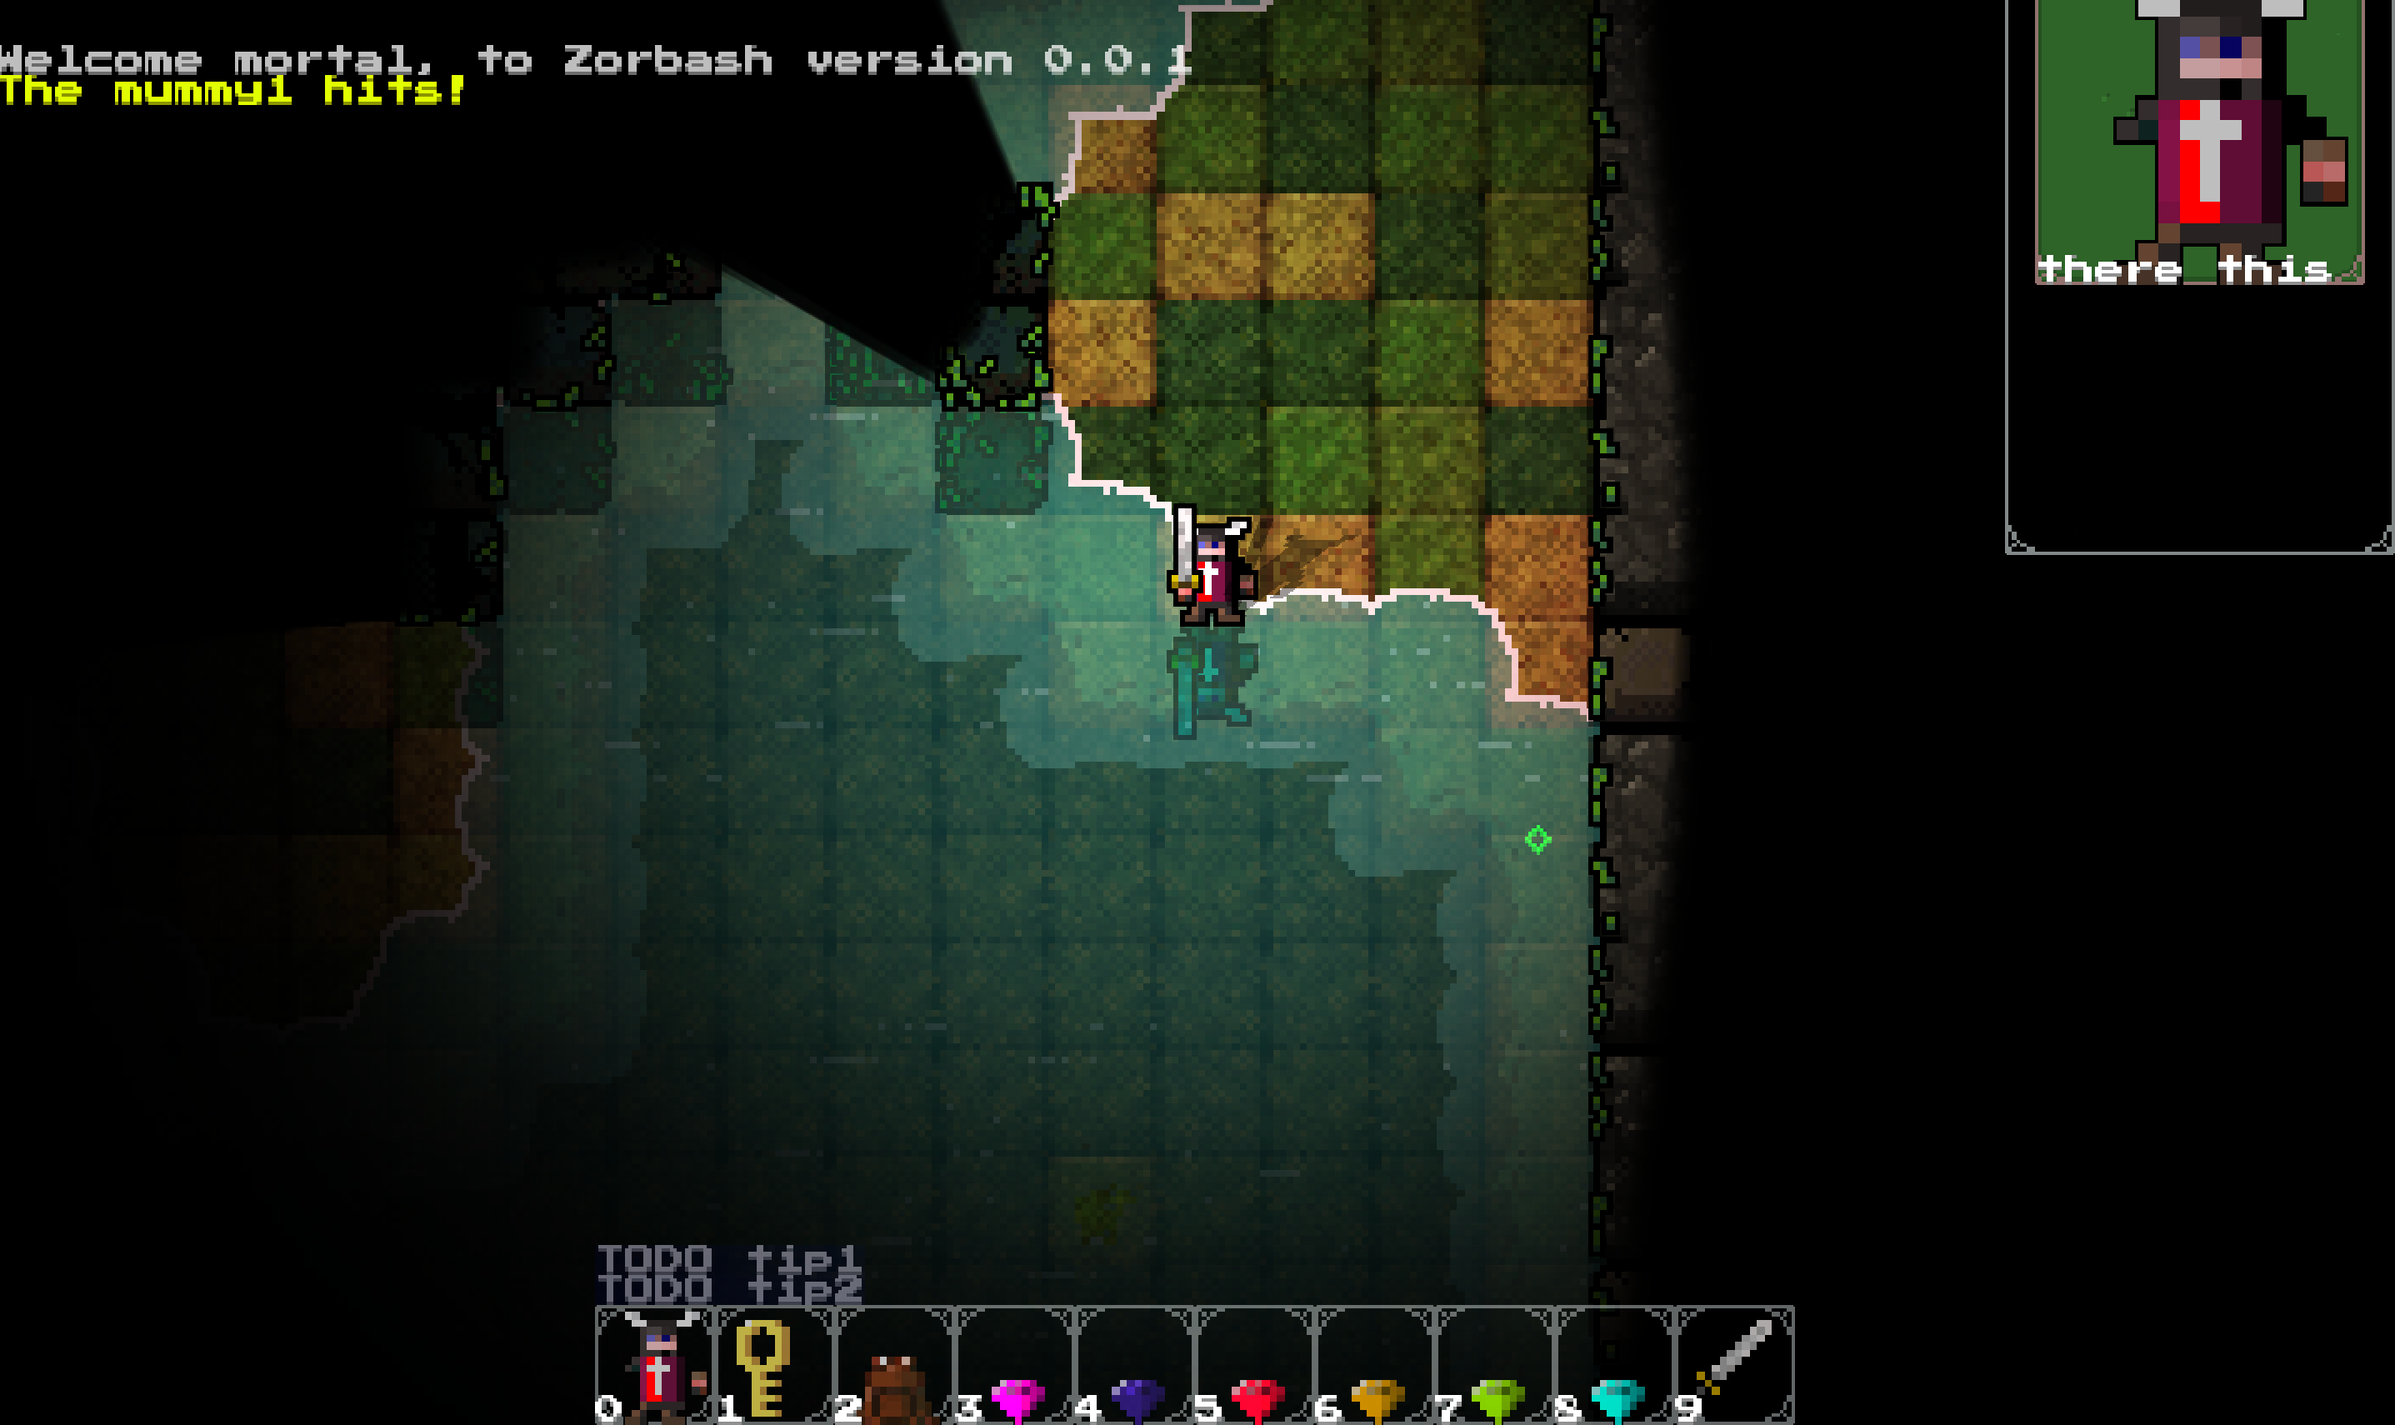
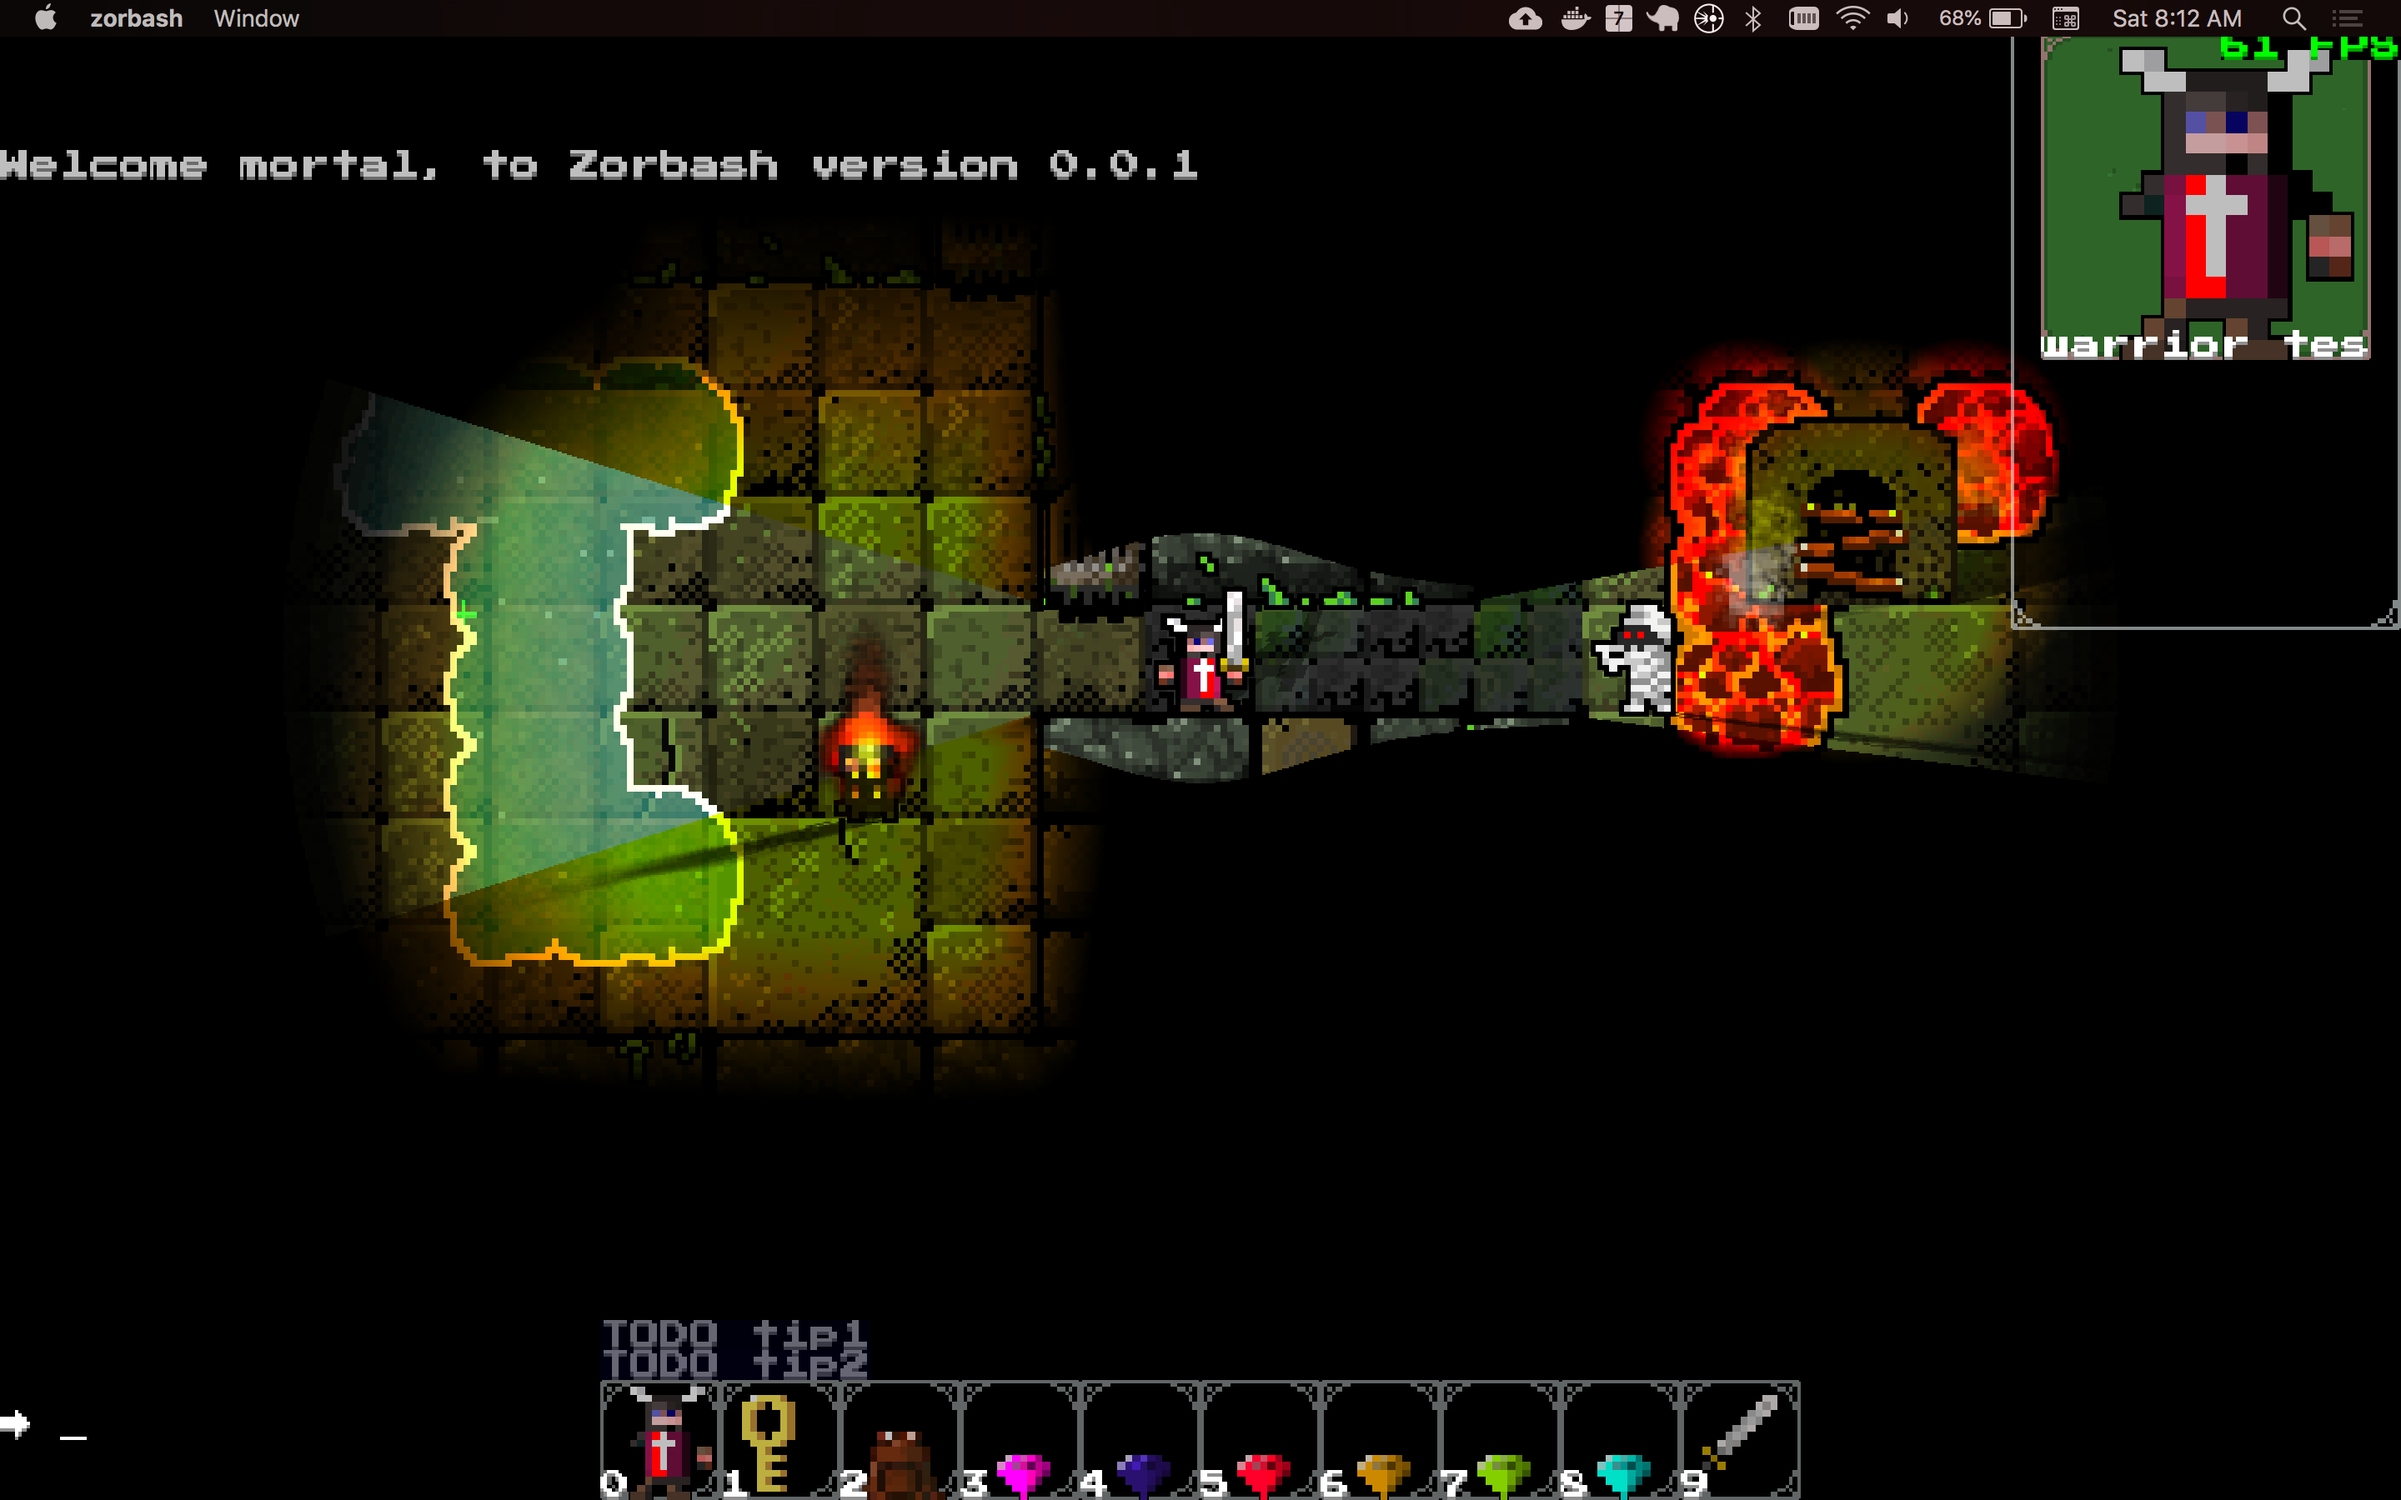
overlay lighting
Former-commit-id: b4a5f2fd73101e923c212e687438c3f433e84f78

diff --git a/src/light.cpp b/src/light.cpp
@@ -6,8 +6,6 @@
 #include "my_game.h"
 #include "my_gl.h"
 
-static const int LIGHT_VISIBLE_DIST = TILES_ACROSS + TILES_ACROSS / 2;
-
 Thingp debug_thing;
 
 static Texp light_overlay_tex ;
@@ -280,6 +278,12 @@ void Light::render_triangle_fans (void)
     } else {
         float *b = &(*glbuf.begin());
         float *e = &(*glbuf.end());
+
+        //
+        // Blending just looks better doing it multiple times
+        //
+        blit_flush_triangle_fan(b, e);
+        blit_flush_triangle_fan(b, e);
         blit_flush_triangle_fan(b, e);
     }
 
@@ -384,7 +388,7 @@ void lights_render_points (int minx, int miny, int maxx, int maxy, int fbo)
                     auto len = DISTANCE(l->at.x, l->at.y,
                                         p->mid_at.x, p->mid_at.y);
 
-                    if (len > LIGHT_VISIBLE_DIST + l->strength) {
+                    if (len > MAX_LIGHT_PLAYER_DISTANCE + l->strength) {
                         continue;
                     }
                 }
@@ -433,7 +437,7 @@ void lights_render_points (int minx, int miny, int maxx, int maxy, int fbo)
                     auto len = DISTANCE(l->at.x, l->at.y,
                                         p->mid_at.x, p->mid_at.y);
 
-                    if (len > LIGHT_VISIBLE_DIST + l->strength) {
+                    if (len > MAX_LIGHT_PLAYER_DISTANCE + l->strength) {
                         continue;
                     }
                 }
@@ -465,6 +469,27 @@ void lights_render_high_quality (int minx, int miny,
                     deferred_player_light = l;
                     continue;
                 }
+            }
+        }
+    }
+
+    if (deferred_player_light) {
+        deferred_player_light->render(fbo);
+    }
+
+    glBlendFunc(GL_SRC_ALPHA, GL_ONE_MINUS_CONSTANT_COLOR);
+
+    for (auto y = miny; y < maxy; y++) {
+        for (auto x = minx; x < maxx; x++) {
+            FOR_ALL_LIGHT_SOURCE_THINGS(world, t, x, y) {
+                auto l = t->get_light();
+                if (l->quality != LIGHT_QUALITY_HIGH) {
+                    continue;
+                }
+
+                if (world->player && (l->owner == world->player)) {
+                    continue;
+                }
 
                 /*
                  * Too far away from the player? Skip rendering.
@@ -474,7 +499,7 @@ void lights_render_high_quality (int minx, int miny,
                     auto len = DISTANCE(l->at.x, l->at.y,
                                         p->mid_at.x, p->mid_at.y);
 
-                    if (len > LIGHT_VISIBLE_DIST + l->strength) {
+                    if (len > MAX_LIGHT_PLAYER_DISTANCE + l->strength) {
                         continue;
                     }
                 }
@@ -482,9 +507,5 @@ void lights_render_high_quality (int minx, int miny,
                 l->render(fbo);
             }
         }
-    }
-
-    if (deferred_player_light) {
-        deferred_player_light->render(fbo);
     }
 }

diff --git a/src/thing_tick.cpp b/src/thing_tick.cpp
@@ -5,6 +5,7 @@
 
 #include "my_main.h"
 #include "my_game.h"
+#include "my_wid_console.h"
 #include <algorithm>
 
 void Thing::achieve_goals_in_life (void)
@@ -77,6 +78,13 @@ void Thing::tick (void)
 
 void things_tick (void)
 {_
+    //
+    // Allows for debugging
+    //
+    if (wid_console_window && wid_console_window->visible) {
+        return;
+    }
+
     //
     // Active things are generally things that move or have a life span
     //

diff --git a/python/things/exit1.py b/python/things/exit1.py
@@ -10,7 +10,9 @@ def tp_init(name):
     x.set_gfx_small_shadow_caster(True)
     x.set_is_exit(True)
     x.set_is_interesting(True)
+    x.set_is_light_strength(2)
     x.set_is_loggable(True)
+    x.set_str_light_color("orange")
     x.set_z_depth(zx.MAP_DEPTH_EXIT)
 
     delay = 50

diff --git a/python/things/floor_deco2.py b/python/things/floor_deco2.py
@@ -15,7 +15,7 @@ def tp_init(name, tiles=[]):
     x.set_is_light_strength(5)
     x.set_is_loggable(False)
     x.set_is_movement_blocking(True)
-    x.set_str_light_color("orange")
+    x.set_str_light_color("cyan")
     x.set_z_depth(zx.MAP_DEPTH_FLOOR_DECO)
     
     delay=50

diff --git a/python/things/entrance1.py b/python/things/entrance1.py
@@ -11,6 +11,8 @@ def tp_init(name):
     x.set_is_entrance(True)
     x.set_is_interesting(True)
     x.set_is_loggable(True)
+    x.set_str_light_color("orange")
+    x.set_is_light_strength(2)
     x.set_z_depth(zx.MAP_DEPTH_EXIT)
 
     delay = 1000

diff --git a/src/my_main.h b/src/my_main.h
@@ -67,6 +67,7 @@
 // Light sources
 //
 #define MAX_LIGHT_RAYS              (360)
+#define MAX_LIGHT_PLAYER_DISTANCE   (TILES_ACROSS * 3)
 
 //
 // Per screen

diff --git a/README.md b/README.md
@@ -3,9 +3,10 @@
 ```diff
 - **** WORK IN PROGRESS - NOT PLAYABLE YET *****
 ```
-
-![Alt text](screenshot.1.png?raw=true "Optional Title")
-
+![Alt text](screenshot.1.png?raw=true "")
+![Alt text](screenshot.2.png?raw=true "")
+![Alt text](screenshot.3.png?raw=true "")
+![Alt text](screenshot.4.png?raw=true "")
 ```diff
                        Hark! Hear now a tale untold
                        since ancient times of yore
